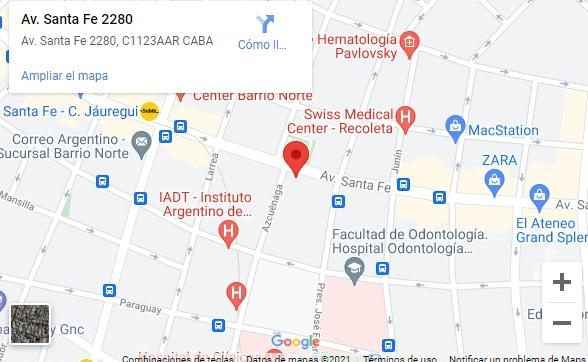
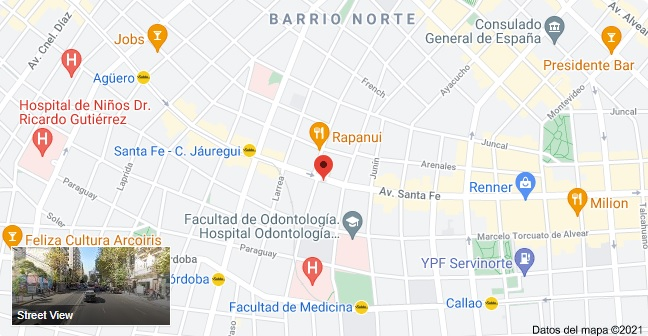
se modificó la sección locales

diff --git a/productos.html b/productos.html
@@ -50,12 +50,12 @@
         <a href="index.html">Home</a>
       </section>
       <!--grilla de productos-->
+      <section class="containerGridTienda" width="100%">
       <div class="card" style="width: 20rem;">
         <img src="Imagenes/remeraAbeja.jpg" class="card-img-top" alt="remeradeabeja">
         <div class="card-body">
           <h4 class="card-title">Abeja</h4>
           <p class="card-text">$1500</p>
-          <a href="productos.html" class="btn btn-primary">Ir a la tienda</a>
         </div>
       </div>
       <div class="card" style="width: 20rem;">
@@ -63,7 +63,6 @@
         <div class="card-body">
           <h4 class="card-title">Arcoiris</h4>
           <p class="card-text">$1500</p>
-          <a href="productos.html" class="btn btn-primary">Ir a la tienda</a>
         </div>
       </div>
       <div class="card" style="width: 20rem;">
@@ -71,7 +70,6 @@
         <div class="card-body">
           <h4 class="card-title">Bart</h4>
           <p class="card-text">$1500</p>
-          <a href="productos.html" class="btn btn-primary">Ir a la tienda</a>
         </div>
       </div>
       <div class="card" style="width: 20rem;">
@@ -79,7 +77,6 @@
         <div class="card-body">
           <h4 class="card-title">Bugs Bunny</h4>
           <p class="card-text">$1500</p>
-          <a href="productos.html" class="btn btn-primary">Ir a la tienda</a>
         </div>
       </div>
       <div class="card" style="width: 20rem;">
@@ -87,7 +84,6 @@
         <div class="card-body">
           <h4 class="card-title">Cactus</h4>
           <p class="card-text">$1500</p>
-          <a href="productos.html" class="btn btn-primary">Ir a la tienda</a>
         </div>
       </div>
       <div class="card" style="width: 20rem;">
@@ -95,10 +91,52 @@
         <div class="card-body">
           <h4 class="card-title">Rocket</h4>
           <p class="card-text">$1500</p>
-          <a href="productos.html" class="btn btn-primary">Ir a la tienda</a>
         </div>
       </div>
-      <div class="gridContainer" width="100%">
+      <div class="card" style="width: 20rem;">
+        <img src="Imagenes/remeraCupcake.jpg" class="card-img-top" alt="remeradecupcake">
+        <div class="card-body">
+          <h4 class="card-title">Cupcake</h4>
+          <p class="card-text">$1500</p>
+        </div>
+      </div>
+      <div class="card" style="width: 20rem;">
+        <img src="Imagenes/remeraDinosaurio.jpg" class="card-img-top" alt="remeradeDinosaurio">
+        <div class="card-body">
+          <h4 class="card-title">Dinosaurio</h4>
+          <p class="card-text">$1500</p>
+        </div>
+      </div>
+      <div class="card" style="width: 20rem;">
+        <img src="Imagenes/remeraDonut.jpg" class="card-img-top" alt="remeraDonut">
+        <div class="card-body">
+          <h4 class="card-title">Donut</h4>
+          <p class="card-text">$1500</p>
+        </div>
+      </div>
+      <div class="card" style="width: 20rem;">
+        <img src="Imagenes/remeraFantasma.jpg" class="card-img-top" alt="remeradeFantasma">
+        <div class="card-body">
+          <h4 class="card-title">Fantasma</h4>
+          <p class="card-text">$1500</p>
+        </div>
+      </div>
+      <div class="card" style="width: 20rem;">
+        <img src="Imagenes/remeraFlama.jpg" class="card-img-top" alt="remeraFlama">
+        <div class="card-body">
+          <h4 class="card-title">Flama</h4>
+          <p class="card-text">$1500</p>
+        </div>
+      </div>
+      <div class="card" style="width: 20rem;">
+        <img src="Imagenes/remeraGatito.jpg" class="card-img-top" alt="remeradeGatito">
+        <div class="card-body">
+          <h4 class="card-title">Cat</h4>
+          <p class="card-text">$1500</p>
+        </div>
+      </div>
+    </section>
+      <div class="gridContainer" >
         <section class="tienda">
           <img src="Imagenes/remera1.jpg" alt="">
           <img src="Imagenes/remera3.jpg" alt="">

diff --git a/locales.html b/locales.html
@@ -56,7 +56,7 @@
       </section>
       <!--imagen mapa Belgrano-->
       <section class="col-lg-6 col-xs-12">
-        <img src="Imagenes/mapa.jpg" class="img-rounded seccionLocales__mapa seccionLocales__mapa--rounded" alt="mapaBelgrano">
+        <img src="Imagenes/mapaBelgrano.jpg" class="img-rounded seccionLocales__mapa seccionLocales__mapa--rounded" alt="mapaBelgrano">
       </section>
       <!--CIERRE BLOQUE-->
 
@@ -82,7 +82,7 @@
       </section>
       <!--imagen mapa San Martín-->
       <section class="col-lg-6 col-xs-12">
-        <img src="Imagenes/mapa.jpg" class="img-rounded seccionLocales3__mapa seccionLocales3__mapa--rounded" alt="mapalocal">
+        <img src="Imagenes/mapaSanMartin.jpg" class="img-rounded seccionLocales3__mapa seccionLocales3__mapa--rounded" alt="mapalocal">
       </section>
     </div>
   </div><!--CIERRE BLOQUE-->

diff --git a/css/estilocss.css b/css/estilocss.css
@@ -7225,6 +7225,12 @@ footer {
   padding: 50px 0 40px 0;
   background-image: linear-gradient(#5bd4d4, #44b8b8); }
 
+  .footer__logo {
+    color: #000;
+    font-size: 2rem;
+    font-weight: bolder;
+  }
+
 .transition {
   font-size: 1rem;
   font-weight: 900;
@@ -7274,6 +7280,14 @@ h6 {
 
 .productosDestacados {
   text-align: center; }
+
+.containerGridTienda {
+  display: grid;
+  grid-template-columns: repeat(4, 25%);
+  grid-template-rows: repeat(3, auto);
+  column-gap: 10px;
+  row-gap: 20px;
+}
 
 .gridContainerIndex {
   display: grid;
